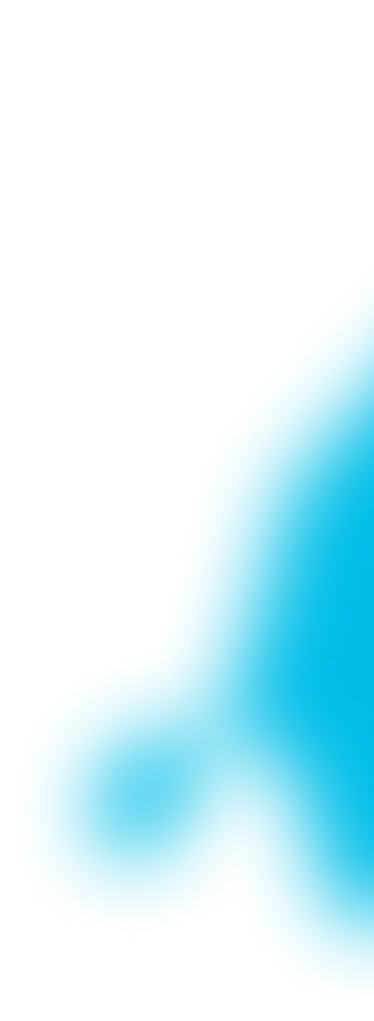
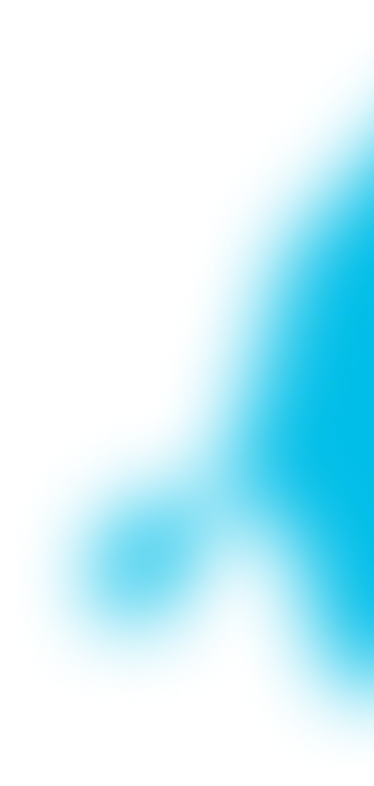
Design update

diff --git a/src/styles.scss b/src/styles.scss
@@ -14,17 +14,12 @@ body {
     background-color: rgb(20, 29, 47);
     font-family: 'Poppins', sans-serif;
     min-height: 100vh;
-    // background-image: url('^assets/img/background-images/Contact-form-bg.webp');
-    // background-repeat: no-repeat;
-    // background-size: contain;
-    // background-position: left bottom;
-    // background-size: 650px;
 
-    // background-image: url('^assets/img/background-images/crop.webp');
-    // background-repeat: no-repeat;
-    // background-size: contain;
-    // background-position: left bottom;
-    // background-size: 400px;
+
+    background-image: url('^assets/img/background-images/intro-crop.webp'), url('^assets/img/background-images/skills.webp');
+    background-repeat: no-repeat, no-repeat;
+    background-position: top 3% left -5%, left 40%;
+    background-size: clamp(570px, 197.1331058020478px + 39.249146757679185vw, 800px), 400px;
 }
 
 a,
@@ -81,3 +76,22 @@ img {
     background-color: rgb(75, 71, 255);
     transform: scaleX(1.1) scaleY(1.1);
 }
+
+// @media(max-width: 950px){
+
+//     body{
+//         background-image: url('^assets/img/background-images/intro-crop.webp'), url('^assets/img/background-images/skills.webp');
+//         background-position: top 140px left clamp(-45px, -104px + 15vw, 50px), left -120px  top 40%;
+//         background-size: clamp(400px, 196px + 63vw, 800px), clamp(190px, 83.33333333333334px + 33.33333333333333vw, 400px);
+//     }
+// }
+
+
+// @media(max-width: 320px){
+
+//     body{
+//         background-image: url('^assets/img/background-images/intro-crop.webp'), url('^assets/img/background-images/skills.webp');
+//         background-position: top 140px left clamp(-45px, -104px + 15vw, 50px), left -108px  top 39%;
+//         background-size: clamp(400px, 196px + 63vw, 800px), clamp(190px, 83.33333333333334px + 33.33333333333333vw, 400px);
+//     }
+// }

diff --git a/src/app/projects/projects.component.ts b/src/app/projects/projects.component.ts
@@ -18,8 +18,8 @@ export class ProjectsComponent {
       ],
       image: 'Pollo loco 1.png',
       links: [
-        '',
-        '',
+        'http://el-pollo-loco.robert-aliaj.de/',
+        'https://github.com/RobertAliaj/El-Pollo-Loco',
       ],
     },
     {
@@ -31,31 +31,32 @@ export class ProjectsComponent {
       image: 'Pollo loco 1.png',
       links: [
         '',
-        '',
+        'https://github.com/AlinaWetter/join',
       ],
     }, {
-      title: 'CRM Project',
-      skills: ['JavaScript', 'HTML', 'CSS', 'Backend'],
+      title: 'Pokedex',
+      skills: ['JavaScript', 'HTML', 'CSS', 'API'],
       description: [
-        'A simple Jump-and-Run game based on an object-oriented approach. Help Pepe Peligroso to win his live or die fight again the chickens',
+        'Based on the PokéAPI a simple library that provides and catalogues pokemon information.',
       ],
       image: 'Pollo loco 1.png',
       links: [
-        '',
-        '',
+        'http://pokedex.robert-aliaj.de/',
+        'https://github.com/RobertAliaj/Pokedex',
       ],
-    }, {
-      title: 'CRM Project',
-      skills: ['JavaScript', 'HTML', 'CSS', 'Backend'],
-      description: [
-        'A simple Jump-and-Run game based on an object-oriented approach. Help Pepe Peligroso to win his live or die fight again the chickens',
-      ],
-      image: 'Pollo loco 1.png',
-      links: [
-        '',
-        '',
-      ],
-    }
+    },
+    //  {
+    //   title: 'CRM Project',
+    //   skills: ['JavaScript', 'HTML', 'CSS', 'Backend'],
+    //   description: [
+    //     'A simple Jump-and-Run game based on an object-oriented approach. Help Pepe Peligroso to win his live or die fight again the chickens',
+    //   ],
+    //   image: 'Pollo loco 1.png',
+    //   links: [
+    //     '',
+    //     '',
+    //   ],
+    // }
   ];
 }
 

diff --git a/src/app/introduction/introduction.component.scss b/src/app/introduction/introduction.component.scss
@@ -4,9 +4,9 @@ section {
     flex-direction: column;
     align-items: center;
     padding: 0 10% 0 10%;
-    background-image: url('^assets/img/background-images/introduction-green.webp'), url('^assets/img/background-images/introduction-purple.webp');
-    background-position: left 200px top 20px, left -20px top 54px;
-    background-repeat: no-repeat;
+    // background-image: url('^assets/img/background-images/introduction-green.webp'), url('^assets/img/background-images/introduction-purple.webp');
+    // background-position: left 200px top 20px, left -20px top 54px;
+    // background-repeat: no-repeat;
     position: relative;
     scroll-margin-top: 120px;
 }
@@ -182,8 +182,8 @@ section {
     // Wenn das rein kommt passt es beim HAndy, dafür aber beim Normalen Bildschirm nicht mehr
 
     // .vector-img-responsive {
-        // width: 100%;
-        // width: calc(100vw - clamp(0px, -10.158730158730158px + 3.1746031746031744vw, 20px));
+    // width: 100%;
+    // width: calc(100vw - clamp(0px, -10.158730158730158px + 3.1746031746031744vw, 20px));
     // }
 
     .introduction-parent {
@@ -191,7 +191,7 @@ section {
     }
 
     .introduction-text {
-        
+
         margin: 5% -5% 0 0;
     }
 
@@ -253,5 +253,21 @@ section {
 
     .links-parent {
         top: 110%;
+    }
+}
+
+@media(max-width: 380px) {
+
+    .background-purple {
+        position: absolute;
+        right: 0;
+        top: 100%;
+        background-image: url('^assets/img/background-images/introduction-purple2.webp');
+        background-repeat: no-repeat;
+        background-size: cover;
+        z-index: 20;
+        width: clamp(200px, 173.6842105263px + 8.2236842105vw, 300px);
+        height: 600px;
+        background-position: 45px;
     }
 }

diff --git a/src/app/projects/projects.component.scss b/src/app/projects/projects.component.scss
@@ -1,7 +1,7 @@
 section {
     background-image: url('^assets/img/background-images/background-projects.webp');
     background-repeat: no-repeat;
-    background-position: -120px 0px;
+    background-position: -120px 60%;
     padding: 0 10% 0 10%;
     position: relative;
 }
@@ -37,6 +37,7 @@ section {
     align-items: flex-start;
     text-align: left;
     width: 50%;
+    gap: 15px;
 }
 
 
@@ -121,11 +122,9 @@ section {
 
 
 .background {
-    width: unset !important;
     position: absolute;
     right: 0;
     object-fit: contain;
-    width: calc(100% - 100px);
     z-index: -15;
     bottom: -335px;
 }
@@ -134,6 +133,10 @@ section {
 @media(max-width: 950px) {
 
     section {
+        background-image: url('^assets/img/background-images/background-projects.webp');
+        background-repeat: no-repeat;
+        background-position: 45% 37%;
+        background-size: clamp(400px, 349px + 16vw, 500px);
         padding: 0 5% 0 5%;
     }
 
@@ -147,6 +150,11 @@ section {
         }
     }
 
+    .background{
+        width: clamp(190px, 74.0677966101695px + 32.20338983050847vw, 380px);
+        bottom: clamp(-400px, -439.66101694915255px + 11.016949152542372vw, -335px);
+    }
+    
     .project-description,
     .project-description-reverse,
     .img-div,

diff --git a/src/app/projects/projects.component.html b/src/app/projects/projects.component.html
@@ -16,12 +16,16 @@
 
             <p>{{ project.description }}</p>
 
+
             <div [ngClass]="{'button-div-reverse': i % 2 == 1, 'button-div': i % 2 == 0}">
-                <a class="project-button" href="#">Live Test</a>
-                <a class="project-button github-button" href="#">Github</a>
+                <ng-container *ngFor="let link of project.links; let j = index">
+                    <a *ngIf="j == 0" class="project-button" href="{{ link }}" target="_blank">Live Test</a>
+                    <a *ngIf="j == 1" class="project-button github-button" href="{{ link }}" target="_blank">Github</a>
+                </ng-container>
             </div>
+
         </div>
     </div>
 
-    <!-- <img class="background" src="assets/img/background-images/bg-green-p.webp"> -->
+    <img class="background" src="assets/img/background-images/bg-green-p.webp">
 </section>

diff --git a/src/app/contact-form/contact-form.component.scss b/src/app/contact-form/contact-form.component.scss
@@ -135,6 +135,15 @@
 }
 
 
+.background {
+    position: absolute;
+    left: 0;
+    bottom: -300px;
+    z-index: -1;
+    width: clamp(450px, 436.8421052631579px + 4.111842105263158vw, 500px);
+}
+
+
 /* Change the white to any color */
 input:-webkit-autofill,
 input:-webkit-autofill:hover,
@@ -216,5 +225,11 @@ input {
         p {
             width: 100%;
         }
+    }
+
+    .background {
+        left: -120px;
+        bottom: -200px;
+        height: 350px;
     }
 }

diff --git a/src/app/introduction/introduction.component.html b/src/app/introduction/introduction.component.html
@@ -31,7 +31,7 @@
                 <a href="mailto: robertaliaj97@gmail.com">
                     <img src="assets/img/icons/contact.webp">
                 </a>
-                <a href="https://www.linkedin.com/in/robert-aliaj-373b6a235/" target="_blank">
+                 <a href="https://www.linkedin.com/in/robert-aliaj-373b6a235/" target="_blank">
                     <img src="assets/img/icons/linkedin.webp">
                 </a>
 

diff --git a/src/app/about-me/about-me.component.html b/src/app/about-me/about-me.component.html
@@ -35,10 +35,7 @@
 
     <div class="right-content-parent">
 
-        <img src="assets/img/about-me.png">
-        <!-- <div class="blue-circle">
-            <img src="assets/img/about-me.webp" alt="">
-        </div> -->
+        <img src="assets/img/about-me.webp">
 
         <div class="blue-line-right"></div>
     </div>

diff --git a/src/index.html b/src/index.html
@@ -6,7 +6,7 @@
   <title>Portfolio</title>
   <base href="/">
   <meta name="viewport" content="width=device-width, initial-scale=1">
-  <link rel="icon" type="image/x-icon" href="favicon.ico">
+  <link rel="icon" type="image/x-icon" href="assets/img/logo-small.png">
 </head>
 
 <body>

diff --git a/src/app/about-me/about-me.component.scss b/src/app/about-me/about-me.component.scss
@@ -55,7 +55,7 @@ section {
     display: flex;
     align-items: center;
     justify-content: center;
-    width: 40%;
+    width: 46%;
     position: absolute;
     right: 0;
 

diff --git a/src/app/app-routing.module.ts b/src/app/app-routing.module.ts
@@ -14,4 +14,6 @@ const routes: Routes = [
   exports: [RouterModule]
 })
 
-export class AppRoutingModule { }
+export class AppRoutingModule {
+
+}

diff --git a/src/app/contact-form/contact-form.component.html b/src/app/contact-form/contact-form.component.html
@@ -45,6 +45,9 @@
 
     </form>
 
+
+    <img class="background" src="assets/img/background-images/Contact-form-bg.webp" alt="">
+
 </div>
 
 
